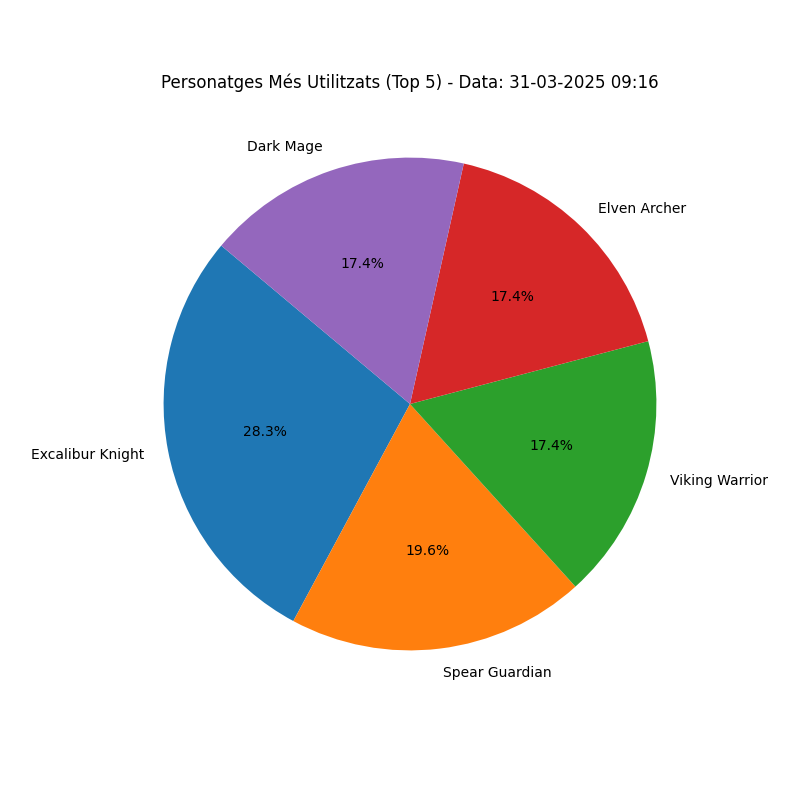
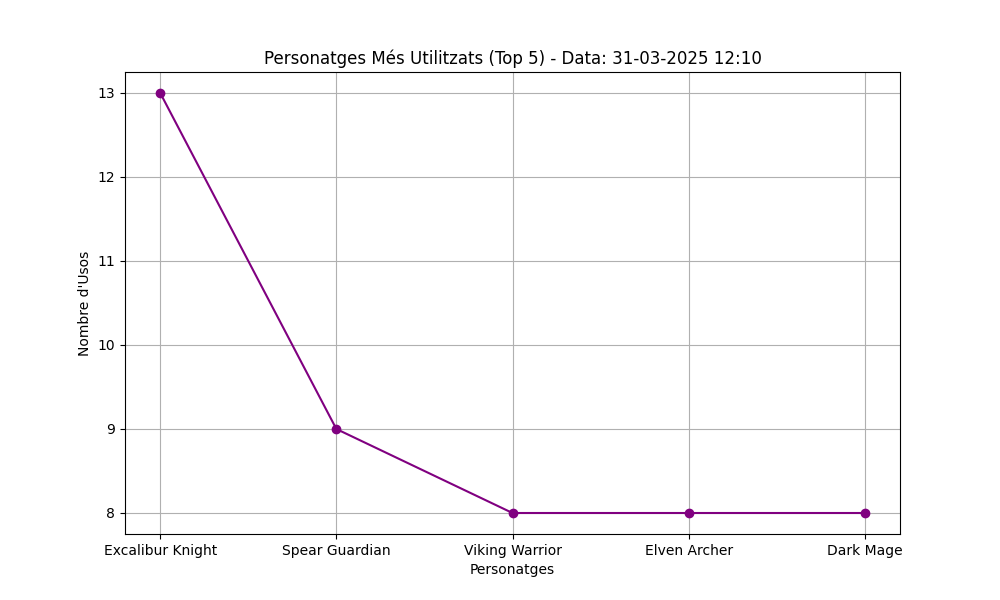
Update statistics images and add new endpoint for least popular characters

diff --git a/vue/vuetify-project/src/pages/Stats.vue b/vue/vuetify-project/src/pages/Stats.vue
@@ -44,6 +44,9 @@
       <v-card class="graphic-card">
         <v-img :src="`${url}/Statistics/top_5_most_popular_character.png`" aspect-ratio="1.5" style="margin: 20px;"></v-img>
       </v-card>
+      <v-card class="graphic-card">
+        <v-img :src="`${url}/Statistics/top_5_least_popular_character.png`" aspect-ratio="1.5" style="margin: 20px;"></v-img>
+      </v-card>
       </div>
     </div>
   </template>

diff --git a/vue/vuetify-project/src/pages/AboutPage.vue b/vue/vuetify-project/src/pages/AboutPage.vue
@@ -1,0 +1,3 @@
+<template>  
+    <h1>NNNNNNN</h1>
+</template>

diff --git a/back/Statistics/script.py b/back/Statistics/script.py
@@ -85,14 +85,38 @@ def generate_statistics():
     top_5_characters = DATA_CHARACTERS_URL[DATA_CHARACTERS_URL["id"].isin(character_usage_count.index)]
     top_5_character_names = top_5_characters.set_index("id").loc[character_usage_count.index]["name"]
     
-    plt.figure(figsize=(8, 8))
-    # autopct='%1.1f%%' per mostrar el percentatge amb un decimal
-    plt.pie(character_usage_count, labels=top_5_character_names, autopct='%1.1f%%', startangle=140, colors=plt.cm.tab10.colors)
+    plt.figure(figsize=(10, 6))
+    plt.plot(top_5_character_names, character_usage_count, marker='o', linestyle='-', color='purple')
+    plt.xlabel("Personatges")
+    plt.ylabel("Nombre d'Usos")
     plt.title("Personatges Més Utilitzats (Top 5) - Data: " + current_datetime)
+    plt.grid(True)
     most_used_characters_image_path = os.path.join(output_dir, "top_5_most_popular_character.png")
     plt.savefig(most_used_characters_image_path)
     plt.close()
-    print(f"Gràfic de pastís dels personatges més utilitzats (Top 5) guardat a: {most_used_characters_image_path}")
+    print(f"Gràfic de línies i punts dels personatges més utilitzats (Top 5) guardat a: {most_used_characters_image_path}")
+    
+    # 4. Personatges menys utilitzats (Top 5)
+    print("Generant Personatges menys utilitzats (Top 5)...")
+    # Transformar les columnes `unit1`, `unit2`, `unit3`, `unit4` en files
+    character_usage = DATA_ARMIES_URL.melt(id_vars=["userid"], value_vars=["unit1", "unit2", "unit3", "unit4"], 
+                                           var_name="unit_slot", value_name="character_id")
+    character_usage_count = character_usage["character_id"].value_counts(ascending=True).head(5)
+    
+    # Obtenir els noms dels personatges
+    bottom_5_characters = DATA_CHARACTERS_URL[DATA_CHARACTERS_URL["id"].isin(character_usage_count.index)]
+    bottom_5_character_names = bottom_5_characters.set_index("id").loc[character_usage_count.index]["name"]
+    
+    plt.figure(figsize=(10, 6))
+    plt.plot(bottom_5_character_names, character_usage_count, marker='o', linestyle='-', color='orange')
+    plt.xlabel("Personatges")
+    plt.ylabel("Nombre d'Usos")
+    plt.title("Personatges Menys Utilitzats (Top 5) - Data: " + current_datetime)
+    plt.grid(True)
+    least_used_characters_image_path = os.path.join(output_dir, "top_5_least_popular_character.png")
+    plt.savefig(least_used_characters_image_path)
+    plt.close()
+    print(f"Gràfic de línies i punts dels personatges menys utilitzats (Top 5) guardat a: {least_used_characters_image_path}")
 
 while True:
     time.sleep(100)
